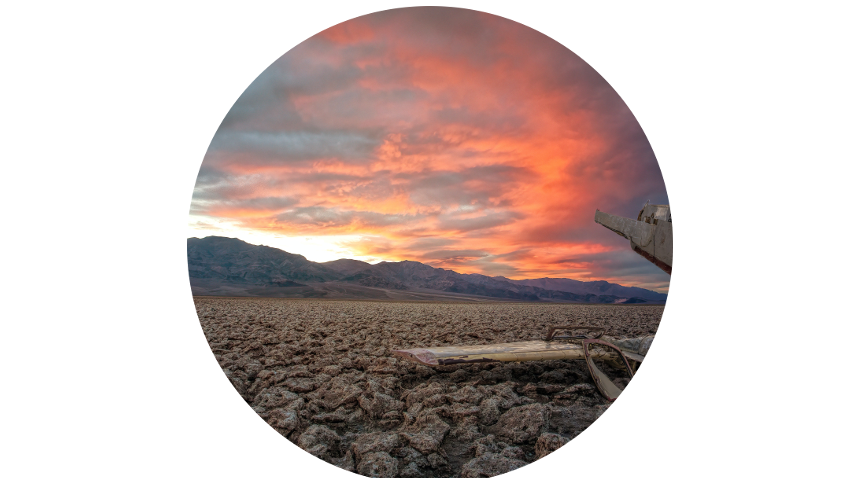
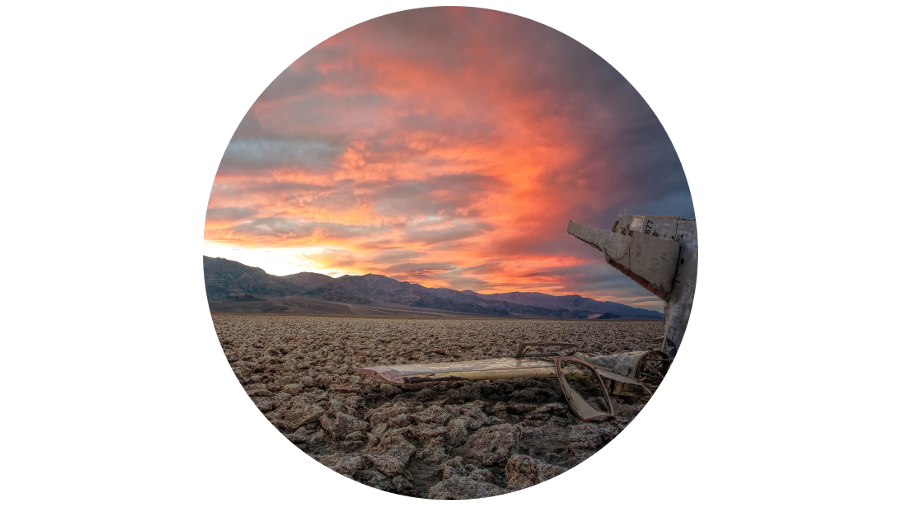
subindo projeto

Changed region(s): [[0.2119, 0.0311, 0.787, 0.9938], [0.4843, 0.0, 0.5448, 0.0311]]

diff --git a/index.html b/index.html
@@ -26,7 +26,7 @@ box-shadow: 5px 5px 10px rgb(0, 0, 0);
 
 }
 img {
-    width: 600px;
+    width: 550px;
 }
 footer {
     color: white;
@@ -43,7 +43,7 @@ footer {
             Aqui vai aparecer a mensagem.
         </div>
         <div>
-            <img src="dia.png" alt="">
+            <img src="dia.png" alt="" id="imagem">
         </div>
     </section>
     <footer>
@@ -52,13 +52,15 @@ footer {
     <script>
       var msg = document.getElementById('msg')
       var section = document.getElementById('container') // alterar a cor do section
+      var img = document.getElementById('imagem')
       var dia = Date()
       var hora = get.Hour
-     //  var hora = 1
+      //var hora = 1
       
       function Dia() {
        if (hora < 12) {
            msg.innerHTML = 'Bom dia'
+           img.src = 'dia.png'
            document.body.style.fontSize = '32px'
            document.body.style.textAlign = 'center'
            document.body.style.backgroundColor = '#d68c6f'
@@ -67,12 +69,14 @@ footer {
         
        }else if (hora < 18) {
            msg.innerHTML = 'Boa tarde'
+           img.src = 'tarde.png'
            document.body.style.fontSize = '32px'
            document.body.style.textAlign = 'center'
            document.body.style.backgroundColor = '#b184429d'
             //    section.style.backgroundColor = '#b184429d' // alterar a cor do section
        }else {
            msg.innerHTML = 'Boa noite'
+           img.src = 'noite.png'
            document.body.style.fontSize = '32px'
            document.body.style.textAlign = 'center'
            document.body.style.backgroundColor = 'black'
